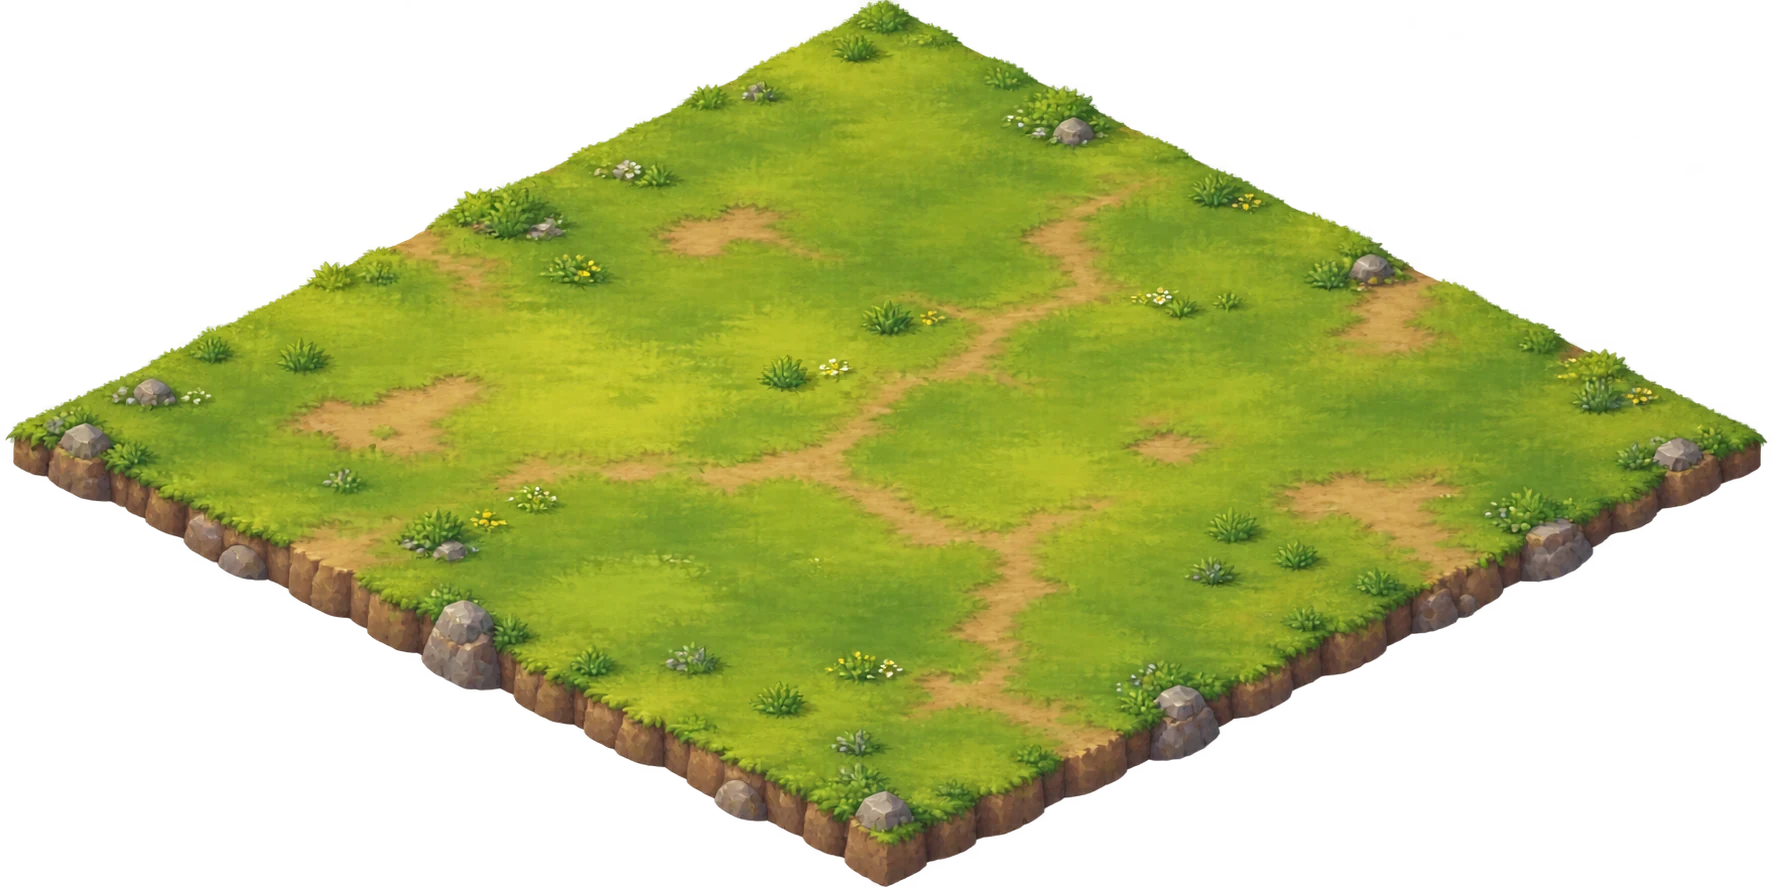
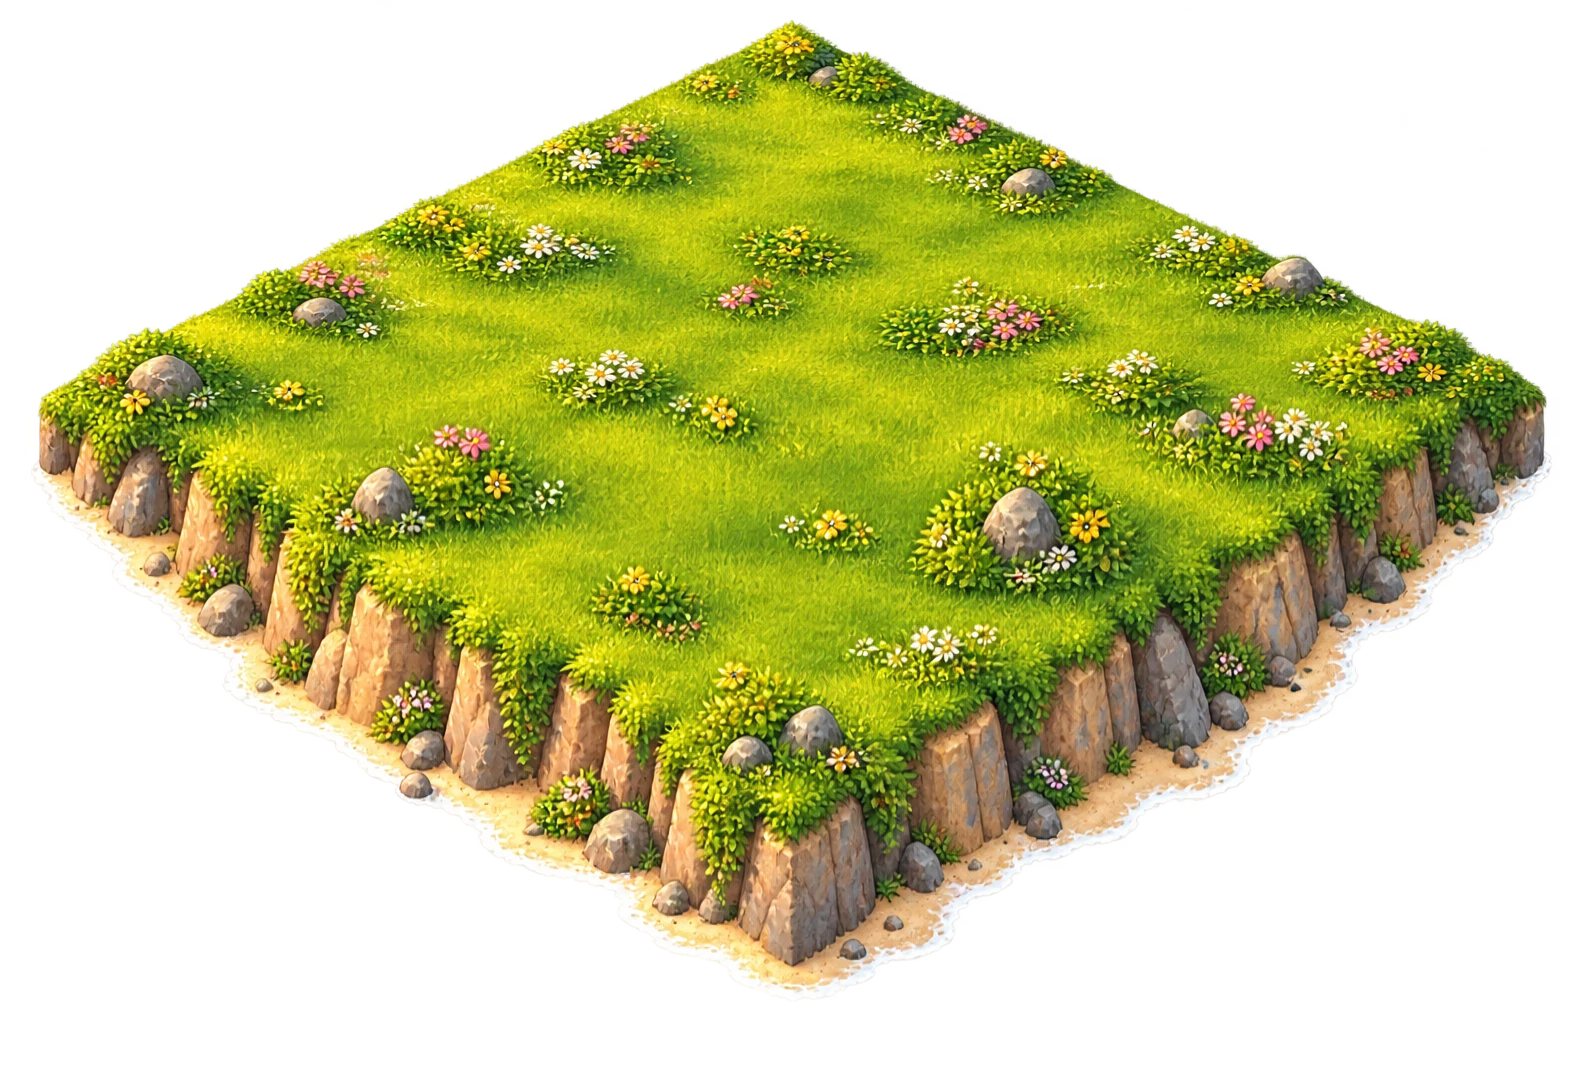
A real island, a shorter night, and wooden panels
The game looked dimmer and flatter than its own title screen. Three reasons,
each fixed:

The night. It began while the sun was still a quarter of the way up, so the
island was washed navy for 58% of every eight-minute day -- most of the time
anyone looked at it. It now begins once the sun is well down: dimmed for 40%
of the day and fully dark for 14% (from 18%), at a wash of 0.36 instead of
0.42. Dusk and dawn keep their warm light, the lamps keep their night, and
lightSweep's four rules -- short of black, a whole day inside a quarter hour
of play, no strobing, lamps clearly brighter at night -- still pass.

The ground. A flat lawn with a thin rim of earth becomes an island: flowered
grass over sandstone cliffs, a strip of sand, a line of surf. The generator
never drew the exact 2:1 diamond the tile grid needs, so the picture was
measured and warped onto one (PROMPTS.md group 43), and GROUND_FIT re-measured
off the result. The cliffs and sand hang below the grid where the old rim did
not, so the rowing boat anchored south of the island moves out past them.

The panels. Resource chips, the goal strip, the hint, tabs, build cards and
the mute button were translucent dark green; they are now carved wood with a
gold rim, the logo's material and the title screen's button. One painter,
woodPanel, for all of them. Kept dark, because every colour of writing on
them was chosen against a dark backing; "selected" is a bright, thick gold
[…]

diff --git a/game.js b/game.js
@@ -560,13 +560,20 @@ const STOCK_MAX=CARRY*2;    // a workplace stops filling once it has this much w
    playing in, not a stealth game, and a build bar you cannot read at 2am is a
    bug however pretty it looks. */
 const DAY_MS = 8 * 60 * 1000;         // a full cycle
-const NIGHT_MAX = 0.42;               // strongest wash, tuned to stay readable
+const NIGHT_MAX = 0.36;               // strongest wash, tuned to stay readable
 const dayPhase = () => (Date.now() % DAY_MS) / DAY_MS;
 
-/* sun: 1 at noon, 0 at dawn and dusk, -1 at midnight. */
+/* sun: 1 at noon, 0 at dawn and dusk, -1 at midnight.
+
+   The night used to begin while the sun was still a quarter of the way up and
+   creep in from there, which washed the island navy for 58% of every day --
+   most of the time anyone looked at it, the village was dimmer than its own
+   pictures. It now begins once the sun is well down and is fully dark only
+   around midnight: dimmed for 40% of the day and at its darkest for 14%,
+   with dusk and dawn left to the warm light. */
 function sky() {
   const sun = Math.cos((dayPhase() - 0.25) * Math.PI * 2);
-  const night = Math.max(0, Math.min(1, (0.25 - sun) / 1.1));
+  const night = Math.max(0, Math.min(1, (-0.3 - sun) / 0.6));
   const warm = Math.max(0, 1 - Math.abs(sun) * 2.6);   // peaks at sunrise and sunset
   return { sun, night, warm };
 }
@@ -3977,9 +3984,15 @@ function tilePath(c, r) {
      faceW  width of the grass surface as a fraction of the image width
      ax,ay  where the near corner of that surface sits in the image
 
-   The measured top face came out 1761 x 880 -- 2.001:1, so the plate really is
-   drawn at the same projection as the tile grid and lines up exactly. */
-const GROUND_FIT = { faceW: 0.9932, ax: 0.4994, ay: 0.9921 };
+   The plate is the lush one: flowered grass over sandstone cliffs, a strip of
+   sand and a line of surf, all hanging BELOW the grass rather than eating
+   into it. The generator never draws an exact diamond -- its first try
+   squashed the front of the grass by a sixth to make room for the cliffs, its
+   second came back a kite with the side corners low -- so the picture was
+   warped onto one: two affine triangles split on the left-right line, which
+   meet without a seam and stretch the cliffs by a sixth at most. The grass
+   face is now 1501 x 750.5, exactly 2:1, with its corners on the grid's. */
+const GROUND_FIT = { faceW: 0.9446, ax: 0.5000, ay: 0.7245 };
 
 /* The sea is one painted image mirrored into a 2x2 tile, which makes it repeat
    with no seam whatever the artwork does at its edges: every tile boundary
@@ -4012,7 +4025,7 @@ function waterPattern() {
    simply not there. */
 const SEA_PROPS = [
   { key: 'boat_fishing', fx: -0.12, top: true,  dy: -230, h: 100 },
-  { key: 'boat_row',     fx:  0.11, top: false, dy:  210, h: 52 },
+  { key: 'boat_row',     fx:  0.11, top: false, dy:  330, h: 52 },   // clear of the cliffs and sand
 ];
 function drawSeaProps(b) {
   const W = b.x1 - b.x0, cx = (b.x0 + b.x1) / 2;
@@ -5383,6 +5396,26 @@ const chipsBot = () => {
   const u = US(), cs = chipRects();
   return cs.length ? Math.max(...cs.map(c => c.y + c.h / 2)) : hudTop() + 90 * u;
 };
+/* The interface's panels are carved wood with a gold rim -- the logo's
+   material and the title screen's button -- where they were translucent dark
+   green. Kept dark on purpose: every colour of writing on them was chosen for
+   contrast against a dark backing, the selected card was once lightened and
+   lost its gold price to it, and the contrast sweeps measure exactly this.
+   What says "selected" is the rim, brighter and thicker, not the fill. */
+const WOOD_RIM = 'rgba(214,170,88,.80)', WOOD_ON = '#f3d27a';
+function woodPanel(x, y, w, h, r, rim, rimW, warm) {
+  const gr = g.createLinearGradient(0, y, 0, y + h);
+  gr.addColorStop(0, warm ? 'rgba(84,36,24,.94)' : 'rgba(74,47,24,.93)');
+  gr.addColorStop(1, warm ? 'rgba(52,20,14,.94)' : 'rgba(42,26,13,.93)');
+  g.fillStyle = gr;
+  g.beginPath(); g.roundRect(x, y, w, h, r); g.fill();
+  g.save(); g.clip();                    // the bevel catching the light, inside the rim
+  g.strokeStyle = 'rgba(255,222,160,.14)'; g.lineWidth = 2;
+  g.beginPath(); g.roundRect(x + 3, y + 3, w - 6, h - 6, Math.max(0, r - 3)); g.stroke();
+  g.restore();
+  g.strokeStyle = rim || WOOD_RIM; g.lineWidth = rimW || 2.5;
+  g.beginPath(); g.roundRect(x, y, w, h, r); g.stroke();
+}
 function drawHUD() {
   const u = US();
   // resources
@@ -5402,10 +5435,7 @@ function drawHUD() {
     ? potentialRate() : null;
   const chip = (c, icon, k, val, cap, col, rate, lost) => {
     const x = c.x, ry = c.y, wch = c.w, h = c.h, full = isFull(k);
-    g.fillStyle = 'rgba(16,26,14,.80)';
-    g.strokeStyle = full ? 'rgba(235,150,110,.75)' : 'rgba(255,255,255,.14)';
-    g.lineWidth = full ? 3 : 2;
-    g.beginPath(); g.roundRect(x, ry - h / 2, wch, h, h / 2); g.fill(); g.stroke();
+    woodPanel(x, ry - h / 2, wch, h, h / 2, full ? 'rgba(235,150,110,.85)' : null, full ? 3 : 2.5);
     g.textAlign = 'left'; g.font = `${Math.round(28 * u)}px Segoe UI, sans-serif`;
     g.fillStyle = '#fff'; g.fillText(icon, x + 16 * u, ry - 1 * u);
     /* The most-looked-at number in the game, and it was spilling out of its own
@@ -5470,8 +5500,7 @@ function drawHUD() {
       continue;
     }
     const x = c.x, ry = c.y, wch = c.w, hh = c.h;
-    g.fillStyle = 'rgba(16,26,14,.80)'; g.strokeStyle = 'rgba(255,255,255,.14)'; g.lineWidth = 2;
-    g.beginPath(); g.roundRect(x, ry - hh / 2, wch, hh, hh / 2); g.fill(); g.stroke();
+    woodPanel(x, ry - hh / 2, wch, hh, hh / 2);
     g.textAlign = 'left'; g.font = `${Math.round(28 * u)}px Segoe UI, sans-serif`;
     g.fillStyle = '#fff'; g.fillText('✨', x + 16 * u, ry - 1 * u);
     const cd = charmDelivered();
@@ -5498,10 +5527,8 @@ function drawHUD() {
        about 4.2 -- on the one card the player is looking at. Never measured,
        because no sweep had a card selected. Darker, still plainly green, and
        the bright border is what says "selected" anyway. */
-    g.fillStyle = sel ? 'rgba(38,64,28,.95)' : can ? 'rgba(22,32,20,.92)' : 'rgba(40,22,20,.92)';
-    g.strokeStyle = sel ? '#9fe86b' : can ? 'rgba(255,255,255,.22)' : 'rgba(200,110,90,.5)';
-    g.lineWidth = sel ? 4 : 2.5;
-    g.beginPath(); g.roundRect(r.x - r.w / 2, r.y - r.h / 2, r.w, r.h, 16); g.fill(); g.stroke();
+    woodPanel(r.x - r.w / 2, r.y - r.h / 2, r.w, r.h, 16,
+      sel ? WOOD_ON : can ? WOOD_RIM : 'rgba(200,110,90,.6)', sel ? 4 : 2.5, !sel && !can);
     g.textAlign = 'center'; g.textBaseline = 'middle';
     g.globalAlpha = full ? 0.55 : 1;
     /* Laid out in measured bands, not fractions of the card. With two costs
@@ -5699,12 +5726,10 @@ function drawHUD() {
   for (const t of tabRects()) {
     const on = barMode === t.mode;
     g.save();
-    g.fillStyle = on ? 'rgba(60,96,44,.95)' : 'rgba(18,26,16,.9)';
-    g.strokeStyle = on ? '#9fe86b' : 'rgba(255,255,255,.18)'; g.lineWidth = on ? 3 : 2;
-    g.beginPath(); g.roundRect(t.x - t.w / 2, t.y - t.h / 2, t.w, t.h, t.h / 2); g.fill(); g.stroke();
+    woodPanel(t.x - t.w / 2, t.y - t.h / 2, t.w, t.h, t.h / 2, on ? WOOD_ON : null, on ? 3.5 : 2.5);
     g.textAlign = 'center'; g.textBaseline = 'middle';
     g.font = `bold ${Math.round(22 * u)}px Segoe UI, sans-serif`;
-    g.fillStyle = on ? '#eaffd6' : '#9fb094';
+    g.fillStyle = on ? '#fff3d6' : '#cdb894';
     g.fillText(t.label, t.x, t.y);
     /* Trading is where surplus food turns back into wood -- at a full village
        it is 30% of wood income -- but only if you go and look. A count on the
@@ -5754,8 +5779,7 @@ function drawHUD() {
     /* Sat on its own height, not a fixed 16 above the tabs: the pill is 41
        tall, so half of it is 20, and its bottom covered the top of the tabs. */
     const y = tabRects()[0].y - tabRects()[0].h / 2 - ph / 2 - 6 * u;
-    g.fillStyle = 'rgba(16,26,14,.86)'; g.strokeStyle = 'rgba(255,255,255,.16)'; g.lineWidth = 2;
-    g.beginPath(); g.roundRect(W / 2 - pw / 2, y - ph / 2, pw, ph, ph / 2); g.fill(); g.stroke();
+    woodPanel(W / 2 - pw / 2, y - ph / 2, pw, ph, ph / 2);
     g.fillStyle = refused ? '#f0c79a' : '#cfe0a8';
     g.fillText(fit.lines[0], W / 2, y);
     g.restore();
@@ -5989,8 +6013,7 @@ function drawGoal() {
   const tw = Math.max(...fit.lines.map(l => g.measureText(l).width));
   const w = Math.min(W - 40 * u, tw + 56 * u);
   const hh = Math.max(52 * u, fit.lines.length * fit.px * 1.22 + 28 * u);
-  g.fillStyle = 'rgba(16,26,14,.80)'; g.strokeStyle = 'rgba(255,255,255,.16)'; g.lineWidth = 2;
-  g.beginPath(); g.roundRect(W / 2 - w / 2, y - hh / 2, w, hh, Math.min(hh, 52 * u) / 2); g.fill(); g.stroke();
+  woodPanel(W / 2 - w / 2, y - hh / 2, w, hh, Math.min(hh, 52 * u) / 2);
   g.fillStyle = '#c8d9b8';
   pillLines(fit, W / 2, y);
   g.restore();
@@ -6451,8 +6474,7 @@ function muteRect() {
 function drawMute() {
   const R = muteRect(), u = US();
   g.save();
-  g.fillStyle = 'rgba(16,26,14,.78)'; g.strokeStyle = 'rgba(255,255,255,.14)'; g.lineWidth = 2;
-  g.beginPath(); g.arc(R.x, R.y, R.r, 0, 7); g.fill(); g.stroke();
+  woodPanel(R.x - R.r, R.y - R.r, R.r * 2, R.r * 2, R.r);
   g.textAlign = 'center'; g.textBaseline = 'middle';
   g.font = `${Math.round(30 * u)}px Segoe UI, sans-serif`;
   g.fillStyle = muted ? '#8d9487' : '#fff';

diff --git a/art/PROMPTS.md b/art/PROMPTS.md
@@ -3232,3 +3232,44 @@ for a 2:1 crop: the village in the RIGHT 55%, the LEFT 45% open calm sea
 under a golden-pink sky with the sun low, nothing important there because
 the logo goes over it. Everything important in the middle band. NO text.
 ```
+
+---
+---
+
+# 43 — The island itself → `art/original/ground_t.png` → `art/ground.webp`  ✅ DONE
+
+The ground plate everything stands on was a flat lawn with a thin rim of
+earth. Repainted to look like the title screen's island: bright flowered
+grass over sandstone cliffs, a strip of golden sand and a line of surf.
+
+The grass face has to be an exact 2:1 diamond, because the tile grid is laid
+on it, and the generator does not draw one:
+
+- asked to repaint the old plate "keeping exactly the same shape", it
+  squashed the front of the grass by a sixth to make room for its cliffs and
+  tilted the whole face (the right corner 38 px low);
+- given a template -- a magenta 2:1 diamond on a 1536x1024 canvas, "grass
+  inside, cliffs below the two lower edges" -- it ignored the template's
+  position but drew a near-diamond with the cliffs properly underneath:
+  front-edge slopes 0.463 and -0.488 against 0.5, the side corners 57% of the
+  way down rather than half.
+
+That second one (`ground_t.png`) was straightened in code: the grass found by
+colour, its four corners measured, and the picture warped onto a true diamond
+by two affine triangles split on the left-right line. They meet without a
+seam, and the stretch is mild (the back half to 85%, the front to 115%, cliffs
+included). `ground_island.png` is the warped result; its grass face is
+1501 x 750.5 and GROUND_FIT in game.js is measured off it.
+
+### 43.1 → `art/original/ground_t.png`
+
+```
+Repaint it ON this attached template, keeping the same 1536x1024 canvas:
+paint lush flowered grass so it fills EXACTLY the magenta diamond -- the
+grass edges on the four magenta lines, all four corners where they are --
+and the sandstone cliffs, mossy rocks, ferns and a narrow band of golden
+sand with white surf foam entirely BELOW the two lower magenta edges,
+hanging into the empty space under the diamond, never covering it. Remove
+the magenta line, the pale fill and the words. Everything outside the
+island fully transparent.
+```
